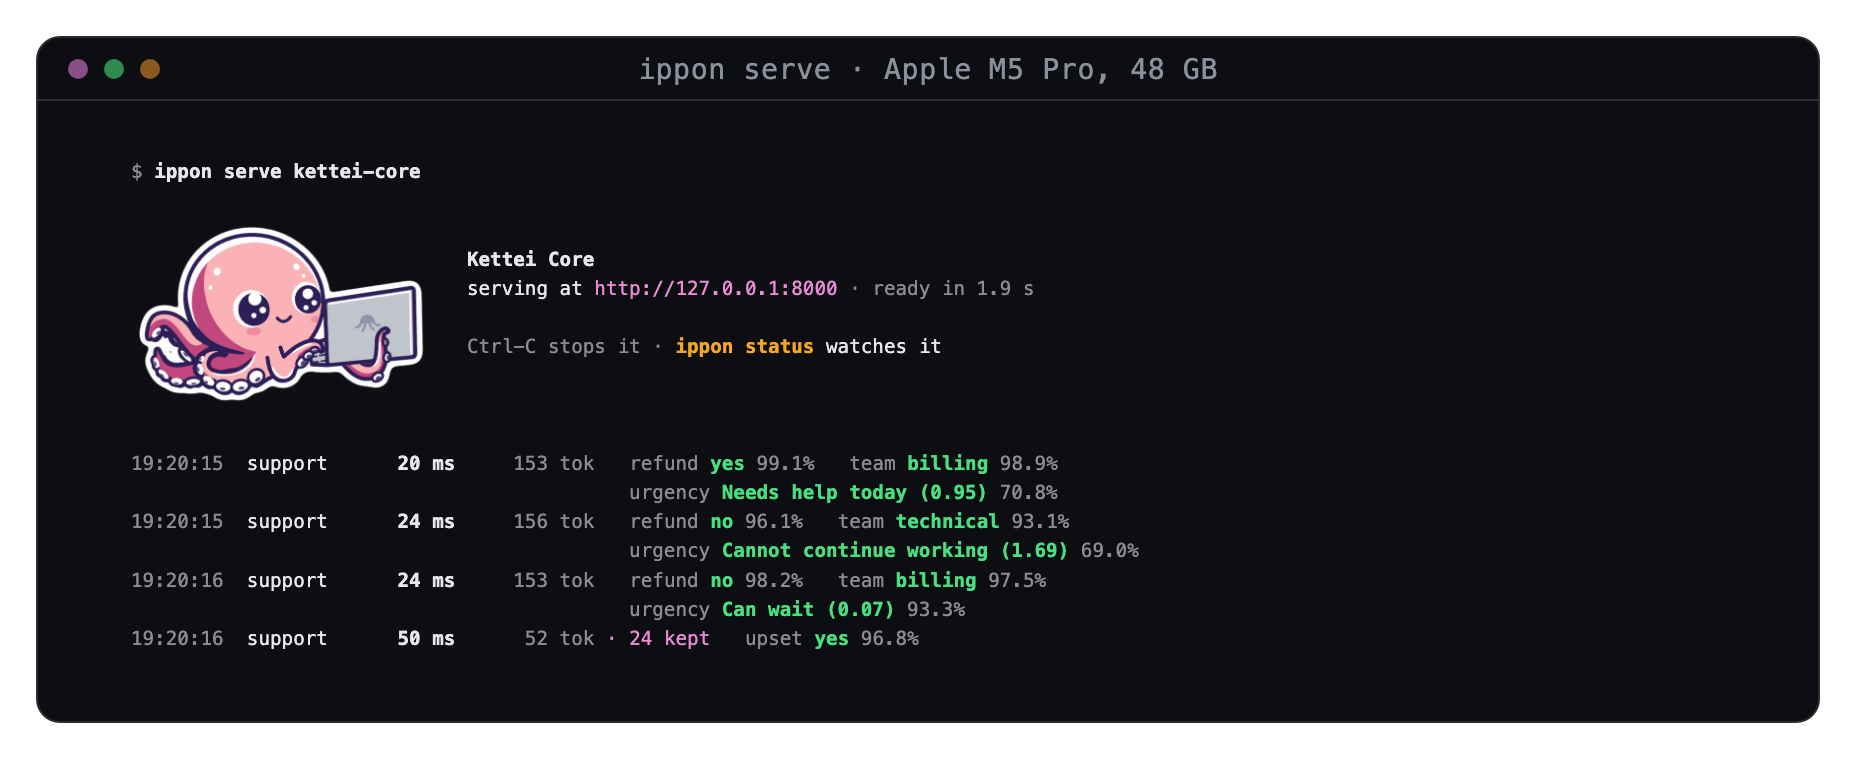
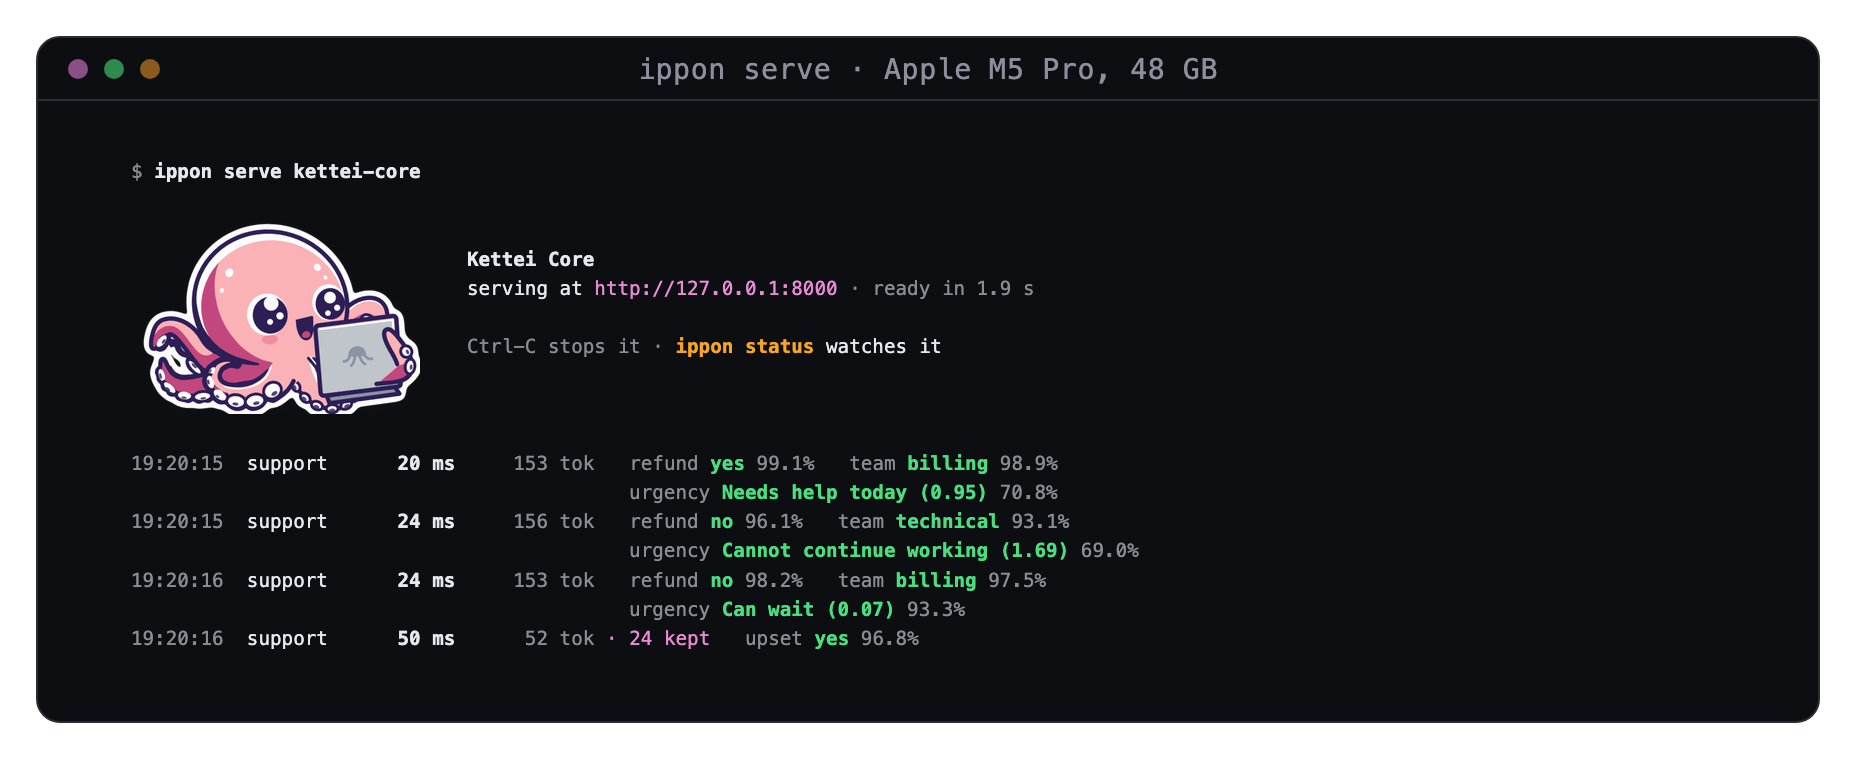
Show Inky holding his laptop, in Apple's Terminal too
The sticker now has Inky holding an open laptop up in his arms. It
comes from the drawing's book pose, whose arm grips the book's edge,
with the laptop's lid in place of the book. scripts/banner.py makes
the swap, so assets/inky.svg stays the brand's drawing unchanged. The
README banner, the terminal's PNG and the serve screenshot all show
the new pose.

A terminal that draws no pictures (Apple's Terminal, VS Code, tmux)
showed no Inky at all. It now shows him as 40 x 28 pixels, two to a
cell, beside the name when the window has room for both, which is 80
columns. Each pixel takes the colour that covers most of it in the
drawing, and the eyes and the mouth are drawn by hand, as at this
size they run into the laptop. A one-colour cell is drawn as a
coloured space, as Terminal draws block glyphs short of the line.

iTerm's picture check also trusts LC_TERMINAL only when TERM_PROGRAM
is empty. A Terminal window opened from iTerm inherits LC_TERMINAL,
so the check got the image protocol it can't draw.

Changed region(s): [[0.0625, 0.2724, 0.25, 0.5447]]

diff --git a/src/ippon/brand.py b/src/ippon/brand.py
@@ -3,13 +3,14 @@ and the accents its screens use.
 
 The name is drawn two pixels to a character cell, an upper half block with the top pixel its foreground and the bottom
 one its background, in the terminal's own colour, so it reads on light and dark terminals alike. Inky, Sqwish's octopus
-at a laptop, is the README's sticker (assets/inky-sticker.svg, drawn into inky.png by scripts/sticker.py), shown as a
-picture where the terminal draws pictures: iTerm2 and WezTerm by iTerm2's inline images, kitty and Ghostty by kitty's
-graphics protocol. Everywhere else (Apple's Terminal, VS Code's terminal, tmux and screen) ippon shows its name and its
-lines alone, on one left edge, since Inky drawn in character cells is only a blur of him. Colours are 24-bit where the
-terminal says it takes them (COLORTERM), the nearest of xterm's 256 elsewhere, and none under NO_COLOR, and with no
-colour there is no picture either. The banner opens `ippon` alone and `ippon setup`, and the sticker, smaller, sits
-beside the header `ippon serve` prints once it is ready. Both show only to a person at a terminal.
+holding a laptop, is the README's sticker (assets/inky-sticker.svg, drawn into inky.png by scripts/sticker.py), shown as
+a picture where the terminal draws pictures: iTerm2 and WezTerm by iTerm2's inline images, kitty and Ghostty by kitty's
+graphics protocol. Everywhere else (Apple's Terminal, VS Code's terminal, tmux and screen) the banner shows Inky in
+pixels (INKY, 40 x 28, drawn by hand from the sticker's drawing), two to a cell, beside the name where the window has
+room, and `ippon serve` its lines alone, since smaller he is only a blur. Colours are 24-bit where the terminal says it
+takes them (COLORTERM), the nearest of xterm's 256 elsewhere, and none under NO_COLOR, and with no colour there is no
+picture either. The banner opens `ippon` alone and `ippon setup`, and the sticker, smaller, sits beside the header
+`ippon serve` prints once it is ready. Both show only to a person at a terminal.
 """
 
 from __future__ import annotations
@@ -46,6 +47,50 @@ ACCENTS = {
     "red": (0xF0, 0x5A, 0x5A),
 }
 TAGLINE = "run decision models on your mac"
+# Inky holding a laptop in pixels, two to a character cell, for a terminal that draws no pictures (Apple's Terminal):
+# the sticker's drawing at 40 x 28, so he and the name fit an 80-column window, each pixel the drawing's own colour it
+# covers most, its outline kept where it covers half a pixel, and the eyes and the mouth drawn by hand. Smaller, he is
+# only a blur, so `ippon serve` shows him only as a picture.
+# n outline, w white, p body, m shade, c cheek, g laptop, s its octopus.
+INKY = (
+    "................nnnn....................",
+    ".............nnwwwwwwwn.................",
+    "............nwwpppppppwwn...............",
+    "..........nwwpppppppppppwn..............",
+    ".........nwwppppppppppppppw.............",
+    ".........wwppppppppppppppppn............",
+    "........nwmpwpppppppppppppppn...........",
+    "........wmmpppppppppppppppppw...........",
+    ".......nwmmppppppppppppppppppn..........",
+    ".......nwmmpppppppppppppppnnnn..........",
+    ".......nwmmpppppwwwwpppppnnwwn..........",
+    ".......nwmmppppwnnwwnppppnnwwnnnnnn.....",
+    "..nnn..nmmmppppwnnwwnppppnnnnnnppppn....",
+    ".nppppnnnmmmpppwnnnwnpnnnpnwnpppnnpnn...",
+    ".mmmmppnnmmmpppwnwnnnpnmnnnnnnnnnnnwgn..",
+    "nmwnnmppnmmmmpppwnnnpppppngggggggggggn..",
+    "nnnnnnmpnnmmmmpppccppppmpngggggggggnnn..",
+    ".....nnmpnnnmmpppppppppppngggggggggnpn..",
+    "..n...nmmmnnnmmmpppppppppnggggssggggppn.",
+    ".nn...nnmnnnnnnnmmppppppnnggggsssgggnpn.",
+    ".nmn..nnnwpnmmmmmmppppppnngggggggggggpnn",
+    ".nmmmnnmnpnmmmmmmnpppppppngggggggggggmnn",
+    "..nwmmmmnwpnnnnnpppppnpppngggggggggmmmn.",
+    "...nwwmnnnwppppppwwnnnnppnggggggggnnnn..",
+    "....nnnnnnnnwwnwnnnn..nnpnnnnnnnnnnnn...",
+    "...........nnwnwnnn....nnpnnnnnnnnnnn...",
+    "...............n........nnnnnn..........",
+    "........................................",
+)
+INKY_COLOURS = {
+    "n": (0x2E, 0x1F, 0x57),
+    "w": (0xFF, 0xFF, 0xFF),
+    "p": (0xFB, 0xB2, 0xB6),
+    "m": (0xC3, 0x48, 0x7F),
+    "c": (0xF4, 0x8C, 0xA1),
+    "g": (0xC0, 0xC5, 0xCB),
+    "s": (0x87, 0x94, 0xA5),
+}
 GAP = "   "  # between the sticker and the lines beside it
 Pictures = Literal["iterm", "kitty"]
 
@@ -86,6 +131,42 @@ def name(colour: bool = False) -> list[str]:
     return lines
 
 
+def inky() -> list[str]:
+    """Inky in colour, two pixels to a cell, every line INKY's full width. A cell of one colour is a space on it, as a
+    cell's background fills all of it where Apple's Terminal draws a block character short of the line (SF Mono)."""
+    rows = []
+    for top, bottom in zip(INKY[::2], INKY[1::2], strict=True):
+        cells = []
+        for up, down in zip(top, bottom, strict=True):
+            if up == "." and down == ".":
+                cells.append(" ")
+            elif up == down:
+                cells.append(f"\x1b[{_code(INKY_COLOURS[up], True)}m \x1b[0m")
+            elif down == ".":
+                cells.append(f"\x1b[{_code(INKY_COLOURS[up], False)}m▀\x1b[0m")
+            elif up == ".":
+                cells.append(f"\x1b[{_code(INKY_COLOURS[down], False)}m▄\x1b[0m")
+            else:
+                cells.append(f"\x1b[{_code(INKY_COLOURS[up], False)};{_code(INKY_COLOURS[down], True)}m▀\x1b[0m")
+        rows.append("".join(cells))
+    return rows
+
+
+def in_pixels(lines: Sequence[str], width: int, indent: str = "") -> list[str] | None:
+    """`lines` beside Inky in pixels (`inky`), centred against him, `indent` in from the left edge; None where
+    `width` columns leave no room for him and the longest line."""
+    art = inky()
+    if len(indent) + len(INKY[0]) + len(GAP) + max((len(_plain(line)) for line in lines), default=0) > width:
+        return None
+    top = max(0, (len(art) - len(lines)) // 2)
+    beside = [""] * top + list(lines) + [""] * max(0, len(art) - len(lines) - top)
+    blank = " " * len(INKY[0])
+    return [
+        f"{indent}{a}{GAP}{b}".rstrip()
+        for a, b in zip([*art, *[blank] * (len(beside) - len(art))], beside, strict=True)
+    ]
+
+
 @cache
 def _sticker_png() -> bytes:
     return (files("ippon") / "inky.png").read_bytes()
@@ -104,7 +185,9 @@ def pictures(stream: IO[str]) -> Pictures | None:
     if not stream.isatty() or os.environ.get("TMUX") or os.environ.get("TERM", "").startswith(("screen", "tmux")):
         return None
     program = os.environ.get("TERM_PROGRAM", "")
-    if program in ("iTerm.app", "WezTerm") or os.environ.get("LC_TERMINAL") == "iTerm2":
+    # LC_TERMINAL only where TERM_PROGRAM says nothing (over SSH): a terminal opened from iTerm2 inherits it, and
+    # Apple's Terminal with it drew no picture, leaving a blank where Inky was meant to be
+    if program in ("iTerm.app", "WezTerm") or (not program and os.environ.get("LC_TERMINAL") == "iTerm2"):
         return "iterm"
     kitty = os.environ.get("TERM") in ("xterm-kitty", "xterm-ghostty") or os.environ.get("KITTY_WINDOW_ID")
     if kitty or program == "ghostty":
@@ -179,6 +262,10 @@ def banner(
             return both
         if (alone := sticker(words, stream, width, 44, "  ")) is not None:
             return [*alone, *(f"  {line}" if line else "" for line in under)]
+        if (drawn := in_pixels([*words, *under], width, "  ")) is not None:  # no pictures here: Inky in pixels
+            return drawn
+        if (drawn := in_pixels(words, width, "  ")) is not None:
+            return [*drawn, *(f"  {line}" if line else "" for line in under)]
     return [f"  {line}" if line else "" for line in [*words, *under]]
 
 

diff --git a/scripts/banner.py b/scripts/banner.py
@@ -1,4 +1,4 @@
-"""ippon's README banner: Inky, Sqwish's octopus, at a laptop as a die-cut sticker beside the wordmark and tagline,
+"""ippon's README banner: Inky, Sqwish's octopus, holding a laptop as a die-cut sticker beside the wordmark and tagline,
 as two self-contained SVGs, assets/banner-light.svg and assets/banner-dark.svg, and the sticker on its own,
 assets/inky-sticker.svg, for pages that show ippon's mark: the blog's ippon post, and the picture of it the terminal
 shows (scripts/sticker.py). The name is in brand.py's pixel letters, as the terminal draws it, and the tagline,
@@ -7,12 +7,12 @@ brand.TAGLINE, is in a monospaced face.
     uv run --with fonttools python scripts/banner.py FONTS_DIR assets
 
 Inky is assets/inky.svg, Sqwish's drawing with all its poses in one file, copied unchanged from the console
-(web/brand/inky.svg in decisionone-workbench). When the drawing changes, copy it again from there rather than editing
-it here. The banner sets the laptop pose, hides the ground shadow and crops the drawing to the scene, then cuts it out
-as a sticker: a white keyline grown round its silhouette, a hairline and a soft shadow, tilted a little. Inky blinks
-as it does in the console, and its typing arm is held still so the README stays calm. FONTS_DIR holds Source Code
-Pro's variable font from github.com/google/fonts (OFL), as SourceCodePro.ttf: the tagline is outlined from it, since
-GitHub loads no fonts inside a README image.
+(web/brand/inky.svg in decisionone-workbench). When the drawing changes, copy it again from there rather than editing it
+here. The banner sets the book pose, whose arm grips the book's edge, puts an open laptop in the book's place (LID),
+hides the ground shadow and crops the drawing to the scene, then cuts it out as a sticker: a white keyline grown round
+its silhouette, a hairline and a soft shadow, tilted a little. Inky blinks as it does in the console. FONTS_DIR holds
+Source Code Pro's variable font from github.com/google/fonts (OFL), as SourceCodePro.ttf: the tagline is outlined from
+it, since GitHub loads no fonts inside a README image.
 """
 
 import re
@@ -35,7 +35,24 @@ THEMES = {
     "light": {"word": "#1f2328", "tag": "#4a5568", "paper": "#ffffff", "shadow": 0.2, "hairline": 0.1},
     "dark": {"word": "#e6edf3", "tag": "#9da7b3", "paper": "#fcfaf8", "shadow": 0.55, "hairline": 0},
 }
-SCENE = (-3.5, 65, 202.5, 122)  # the laptop pose's scene in the drawing's own units: x, y, width, height
+SCENE = (-13.5, 29.5, 203, 144.5)  # the book pose's scene in the drawing's own units: x, y, width, height
+# The book's own shapes, from its page tops to its spine: the arm that holds it stays, in front of what replaces it.
+BOOK = re.compile(r'<path d="M139\.5 120.*?<path d="M184\.3 120l0 51"[^>]*/>', re.S)
+# An open laptop's lid seen from behind, in the laptop pose's colours and with its octopus: the base's edge below it,
+# the lid, its lit rim and the octopus on it.
+LID = "".join(
+    (
+        '<path d="M144 175.5l57-4.6 3.6 6.2-58.6 4.9z" fill="#8794A5" class="lf"/>',
+        '<path class="lf" fill="#C0C5CB" d="M137.4 120.4q-.1-3.3 3.2-3.6l61.4-4.6q3.3-.2 3.4 3.1l.8 52.4',
+        'q.1 3.3-3.2 3.5l-60.6 4.3q-3.3.2-3.4-3.1z"/>',
+        '<path d="M141.2 120l61-4.5.8 52" fill="none" stroke="#fff" stroke-width="1.6" stroke-linejoin="round"',
+        ' stroke-linecap="round"/>',
+        '<g fill="#8794A5" transform="translate(171.5 143.5) scale(1.35) translate(-197.25 -129)">',
+        '<path d="M191.5 129.5c-.5-8 11.5-8.5 11 0z"/>',
+        '<path d="M192.5 129q-1.5 3.5-4 3.2m7-2.7q-.5 4-2.5 5.5m5.5-5.5q1 4 3 5m0-5.5q2 3 4.5 2.5" fill="none"',
+        ' stroke="#8794A5" stroke-width="1.6" stroke-linecap="round"/></g>',
+    )
+)
 TILT = -3  # degrees the sticker is turned, as a sticker is never quite straight
 TEXT_X = 644  # banner units from the left where the name and the tagline start
 
@@ -48,12 +65,14 @@ def swap(text: str, old: str, new: str) -> str:
 
 
 def inky(x: float, y: float, width: float) -> str:
-    """The drawing at the laptop as an <svg> placed at x, y, `width` wide."""
+    """The drawing holding the laptop as an <svg> placed at x, y, `width` wide."""
     svg = re.sub(r"^<!--.*?-->\s*", "", (ASSETS / "inky.svg").read_text(), flags=re.S)
-    svg = swap(svg, 'class="octo-inky"', 'class="octo-inky" data-pose="laptop"')
+    svg = swap(svg, 'class="octo-inky"', 'class="octo-inky" data-pose="book"')
+    svg, found = BOOK.subn(LID, svg, count=1)
+    if not found:
+        raise SystemExit("assets/inky.svg no longer has the book's shapes: see the docstring of scripts/banner.py")
     svg = swap(svg, "width: 100%; height: auto; ", "")  # placed by the banner, not sized by a page
-    held = "  .octo-inky .inky-shadow { display: none; } .octo-inky { --inky-typing: paused; }\n  </style>"
-    svg = swap(svg, "</style>", held)
+    svg = swap(svg, "</style>", "  .octo-inky .inky-shadow { display: none; }\n  </style>")
     box = " ".join(f"{v:g}" for v in SCENE)
     height = width * SCENE[3] / SCENE[2]
     return swap(
@@ -114,7 +133,7 @@ def name() -> str:
 def banner(theme: str) -> str:
     colours = THEMES[theme]
     tag = outline("SourceCodePro.ttf", 400, TAGLINE, 26)
-    width, height, art = 1170, 380, 532
+    width, height, art = 1170, 380, 470
     top = (height - art * SCENE[3] / SCENE[2]) / 2
     return f'''<svg xmlns="http://www.w3.org/2000/svg" viewBox="0 0 {width} {height}" width="{width}" height="{height}"
   role="img" aria-label="ippon: {TAGLINE}">
@@ -132,7 +151,7 @@ def alone() -> str:
     x, y, w, h = SCENE[0] - pad, SCENE[1] - pad, SCENE[2] + 2 * pad, SCENE[3] + 2 * pad
     return (
         f'<svg xmlns="http://www.w3.org/2000/svg" viewBox="{x:g} {y:g} {w:g} {h:g}" width="{w:g}" height="{h:g}" '
-        'role="img" aria-label="Inky, the Sqwish octopus, at a laptop">'
+        'role="img" aria-label="Inky, the Sqwish octopus, holding a laptop">'
         f"{sticker(SCENE[0], SCENE[1], SCENE[2], 'light')}</svg>\n"
     )
 

diff --git a/tests/test_cli.py b/tests/test_cli.py
@@ -4,8 +4,10 @@ import argparse
 import base64
 import io
 import json
+import os
 import re
 import shlex
+import shutil
 import sys
 from importlib.resources import files
 from pathlib import Path
@@ -380,18 +382,29 @@ def test_ippon_alone_shows_inkys_sticker_where_the_terminal_draws_pictures_and_w
     assert chunks[-1][0].endswith("m=0")
     assert base64.b64decode("".join(data for _, data in chunks)) == sticker
 
-    for program, tmux in (("Apple_Terminal", None), ("iTerm.app", "/tmp/tmux-501/default,1,0")):
+    # Apple's Terminal (one opened from iTerm2 too, which inherits LC_TERMINAL) and iTerm2 inside tmux: Inky in
+    # pixels beside the name in an 80-column window, and no picture sequence a terminal could print as text
+    for program, inherited, tmux in (
+        ("Apple_Terminal", None, None),
+        ("Apple_Terminal", "iTerm2", None),
+        ("iTerm.app", None, "/tmp/tmux-501/default,1,0"),
+    ):
         monkeypatch.setenv("TERM_PROGRAM", program)
+        if inherited:
+            monkeypatch.setenv("LC_TERMINAL", inherited)
         if tmux:
             monkeypatch.setenv("TMUX", tmux)
+        monkeypatch.setattr(shutil, "get_terminal_size", lambda *a: os.terminal_size((80, 24)))
         assert main([]) == 0
         shown = capsys.readouterr().out
         assert "\x1b]1337" not in shown
         assert "\x1b_G" not in shown
         words = re.sub(r"\x1b\[[0-9;]*m", "", shown).splitlines()
-        assert words[1] == "  ▀▀"
-        assert "  run decision models on your mac" in words
-        assert f"  ippon {__version__}" in words
+        beside = [line for line in words if line.endswith("run decision models on your mac")]
+        assert len(beside) == 1
+        assert len(beside[0]) <= 79  # beside Inky, in the window
+        assert shown.count("\x1b[48;") > 100  # Inky's cells, each a colour
+        assert any(line.endswith(f"ippon {__version__}") for line in words)
 
 
 def test_a_request_is_read_from_stdin_only_when_dash_asks(

diff --git a/CHANGELOG.md b/CHANGELOG.md
@@ -2,10 +2,10 @@
 
 ## Unreleased
 
-- **Inky in place of the cat** - The README's banner shows Inky, Sqwish's octopus, at a laptop as a sticker.
+- **Inky in place of the cat** - The README's banner shows Inky, Sqwish's octopus, holding a laptop, as a sticker.
   `ippon` and `ippon setup` open with the same sticker beside ippon's name in terminals that draw pictures
-  (iTerm2, WezTerm, kitty and Ghostty), and with the name, the tagline and the version alone elsewhere, on one
-  left edge. `ippon setup` names the Mac on the version's line. `ippon serve` shows the sticker beside its first
+  (iTerm2, WezTerm, kitty and Ghostty), and with Inky drawn in coloured cells elsewhere (Apple's Terminal, VS Code,
+  tmux), beside the name where the window is 80 columns or wider. `ippon setup` names the Mac on the version's line. `ippon serve` shows the sticker beside its first
   lines in those terminals, and starts with the model, not ippon's version. `ippon status` shows no picture,
   since it redraws its screen every second.
 
